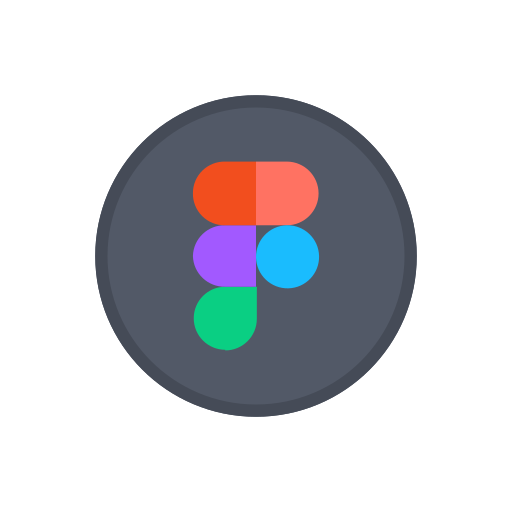
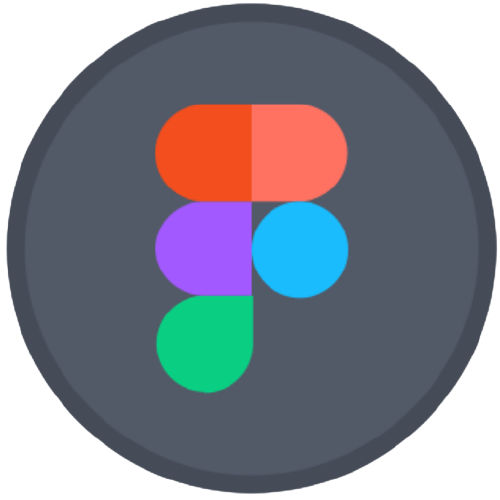
他スキル　修正

diff --git a/css/common.css b/css/common.css
@@ -111,18 +111,17 @@ li {
   border-radius: 50%;
   box-shadow: 0 0 50px 0 #d9d9d9;
 }
-.about_detail h3{
+.about_detail h3 {
   font-size: 30px;
   font-weight: bold;
 }
-.font5{
+.font5 {
   font-size: 18px;
   font-weight: bold;
 }
-.font5{
+.font5 {
   font-size: 16px;
 }
-
 
 .skill_item {
   display: flex;
@@ -136,13 +135,22 @@ li {
 }
 .skill_other {
   display: flex;
-  flex-wrap: wrap;
+  justify-content: center;
 }
 .skill_other_img {
-  margin-right: 60px;
+  margin: 0 30px 0 30px;
   text-align: center;
+  width: 120px;
 }
 .skill_other_img img {
+  width: 60px;
+}
+.Figma_img{
+  margin: 0 30px 0 30px;
+  text-align: center;
+  width: 120px;
+}
+.Figma_img img{
   width: 60px;
 }
 .skill_name p {

diff --git a/Index.html b/Index.html
@@ -115,7 +115,7 @@
                   <p>Git</p>
                 </figcaption>
               </figure>
-              <figure class="skill_other_img">
+              <figure class="Figma_img">
                 <img src="test_img/Figma_icon.png" alt="他スキル2">
                 <figcaption class="skill_name">
                   <p>Figma</p>
